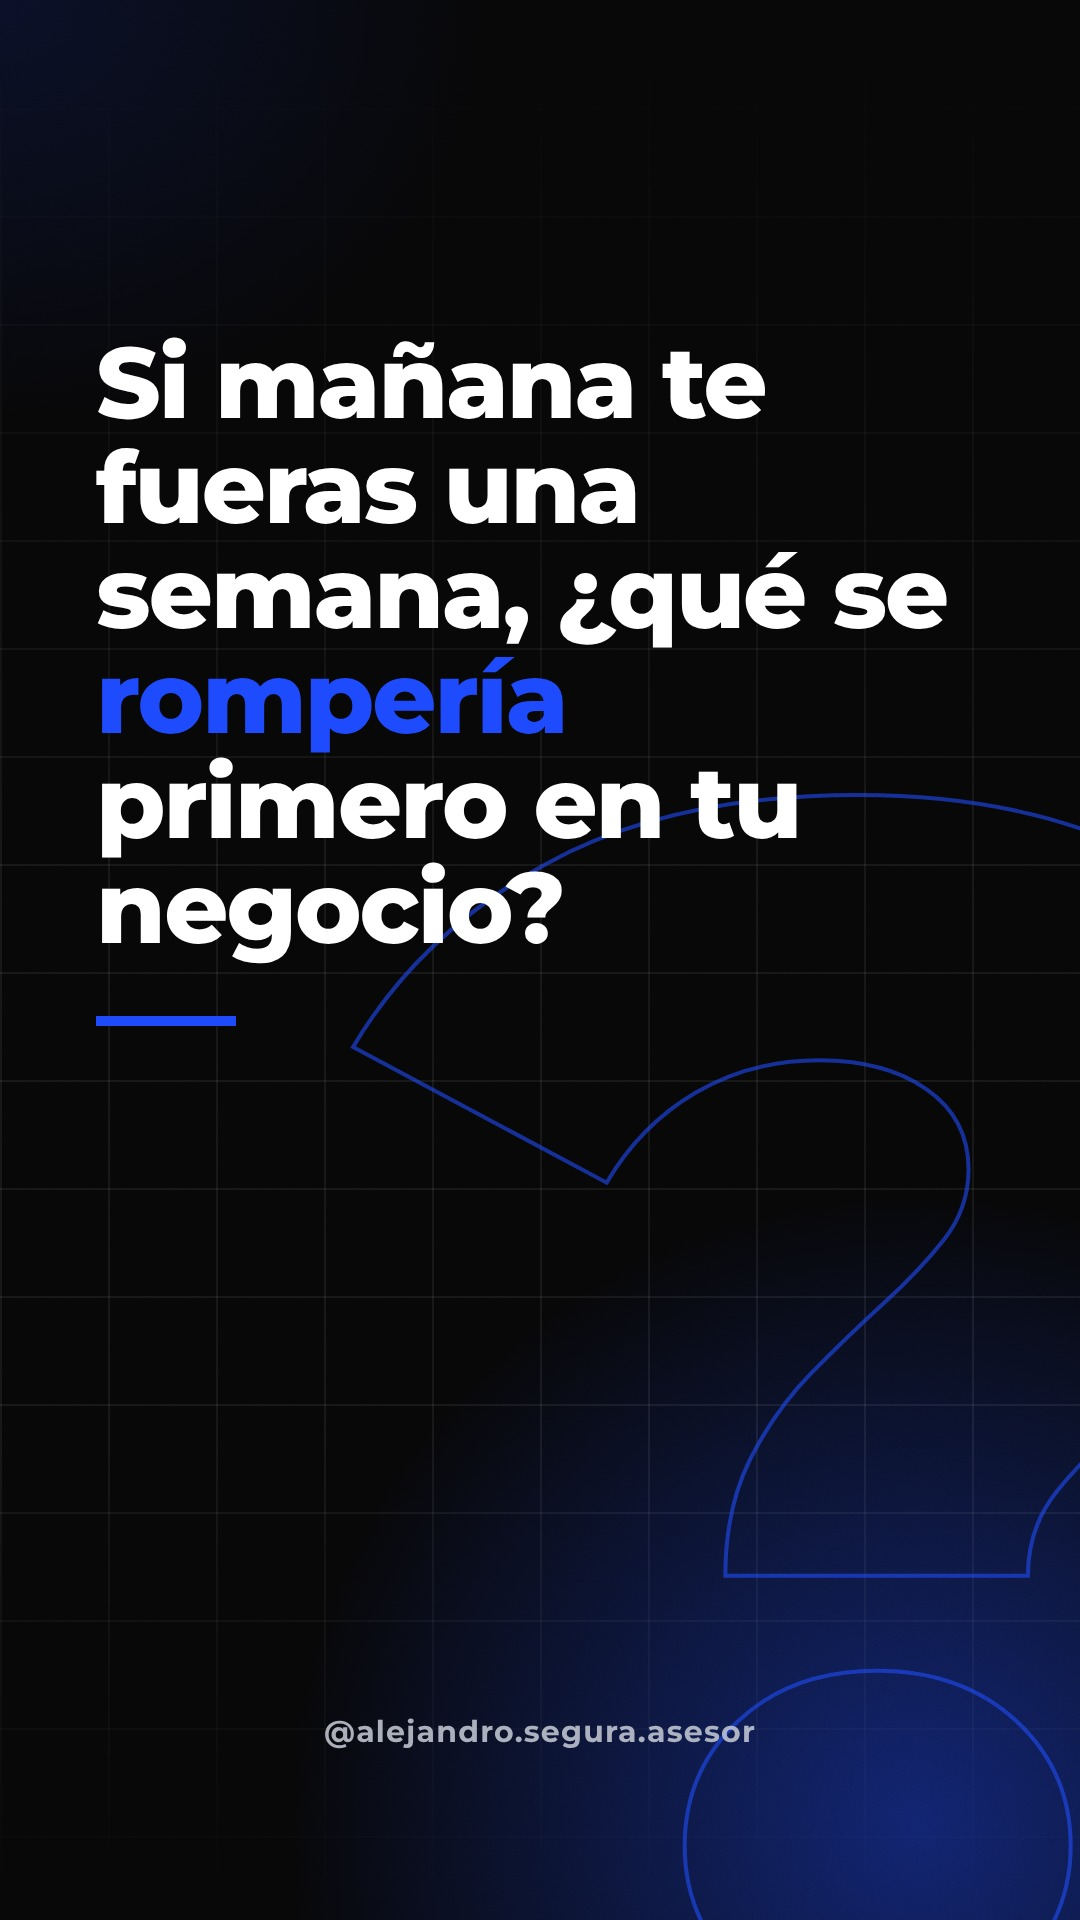
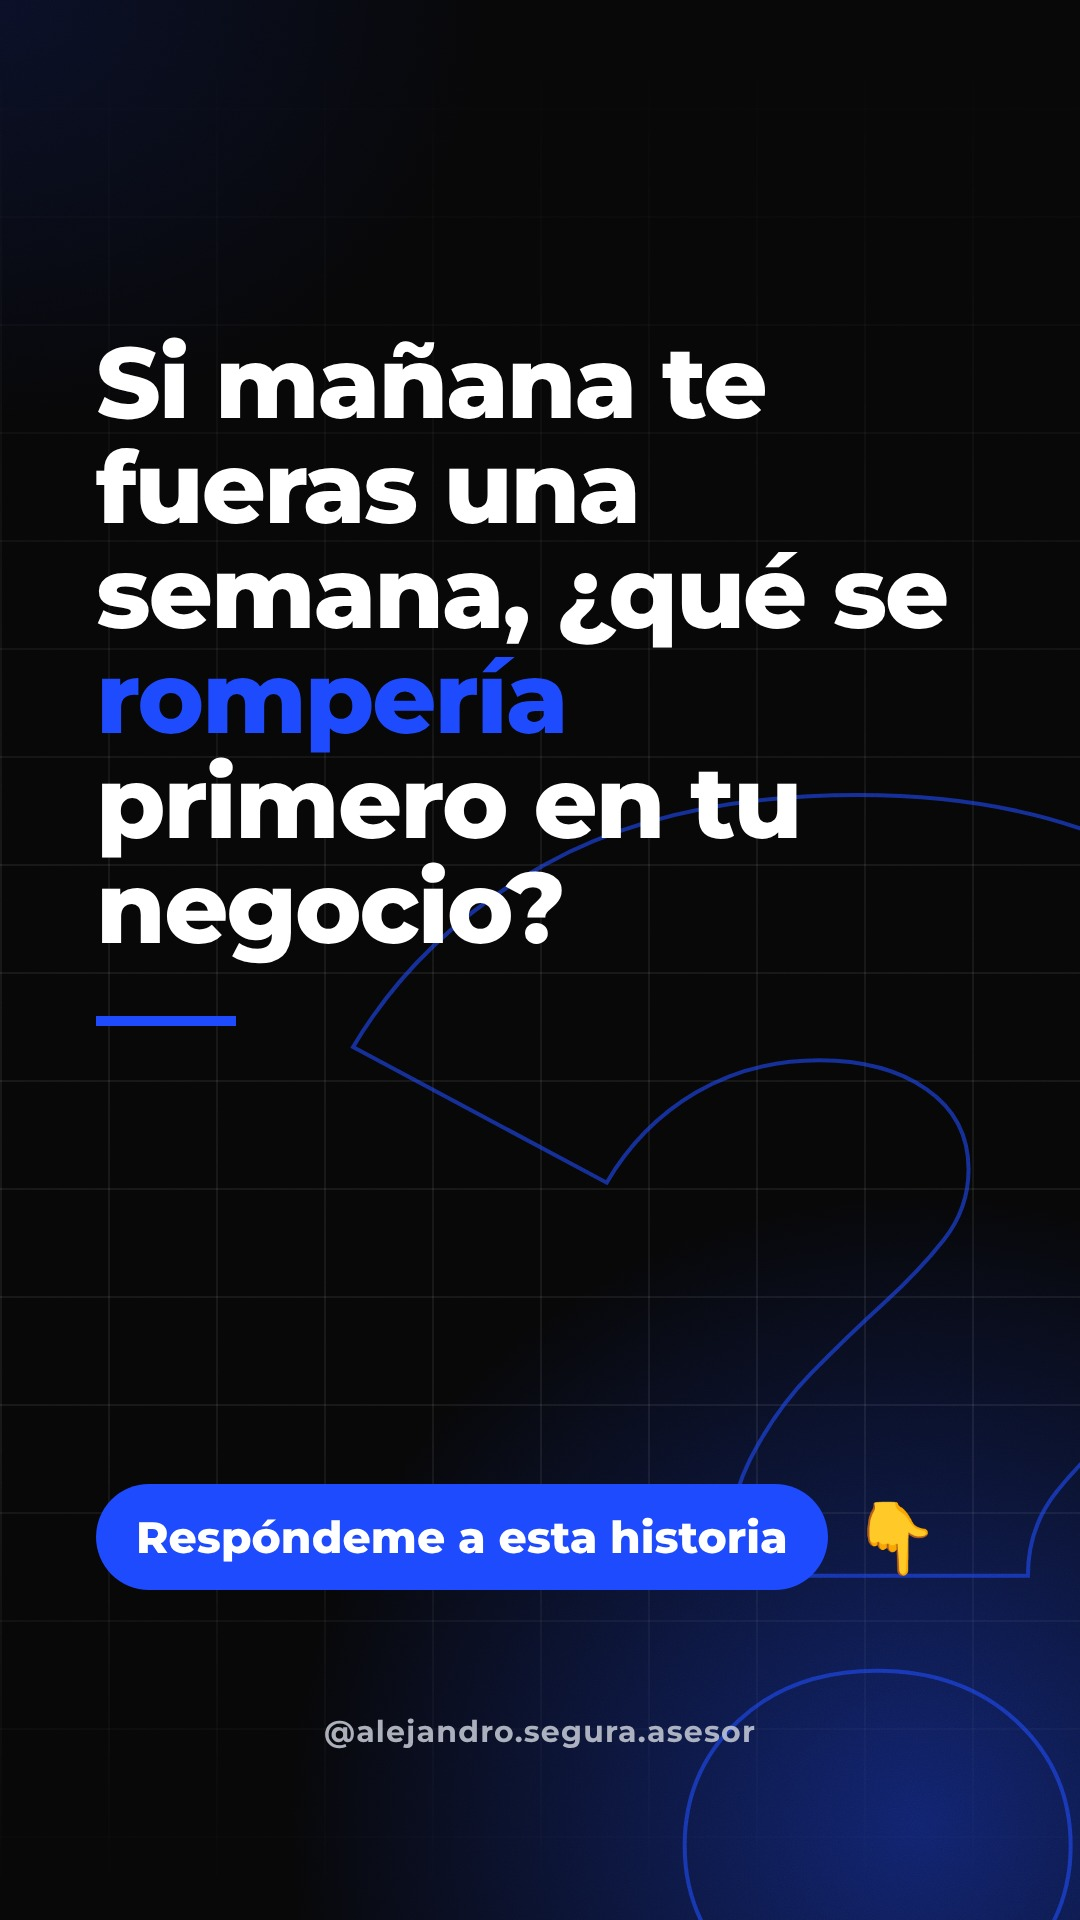
Historias martes 17 y jueves 19 con llamada a la acción
Claude-Session: https://claude.ai/code/session_017QZaA8qgokDHtEnzxU5B1Y

Changed region(s): [[0.0917, 0.75, 0.7639, 0.8438], [0.7944, 0.7812, 0.8556, 0.8438]]

diff --git a/historias/tools/render_2026_11_17_19.py b/historias/tools/render_2026_11_17_19.py
@@ -1,4 +1,5 @@
-"""Historia martes 17-nov (estilo martes de render_story.py). Ejecutar desde la raíz del repo."""
+"""Historias martes 17-nov y jueves 19-nov con llamada a la acción (se publican solas desde Metricool,
+así que la CTA va en la imagen: respuesta por mensaje privado). Ejecutar desde la raíz del repo."""
 import asyncio
 from playwright.async_api import async_playwright
 F="/tmp/mont/fonts/ttf/"
@@ -25,16 +26,36 @@ martes_bg = """
 <div style="position:absolute;right:-300px;bottom:-330px;font-size:1700px;font-weight:800;line-height:1;color:transparent;-webkit-text-stroke:4px #1F4BFF;opacity:.55">?</div>
 """ + GRAIN.format(o=.35)
 
+# MIÉRCOLES (azul): degradado con profundidad + ondas finas concéntricas + grano
+rings="".join(f'<div style="position:absolute;width:{d}px;height:{d}px;border-radius:50%;border:{w}px solid #0A0A0A;opacity:{op};right:{-d//2+60}px;bottom:{-d//2+60}px"></div>'
+              for d,w,op in [(360,30,.85),(620,3,.45),(860,3,.32),(1100,3,.22),(1340,3,.14),(1580,3,.08)])
+miercoles_bg = f"""
+<div style="position:absolute;inset:0;background:linear-gradient(160deg,#3A62FF 0%,#1F4BFF 45%,#1636C9 100%)"></div>
+<div style="position:absolute;inset:0;background:radial-gradient(800px 700px at 15% 10%,#ffffff22,transparent 70%)"></div>
+{rings}
+""" + GRAIN.format(o=.45)
 
-T='Si mañana te fueras una semana, ¿qué se <span style="color:#1F4BFF">rompería</span> primero en tu negocio?'
-html=page(martes_bg,"#1F4BFF","#C9CDD8",T,"").replace("font-size:116px","font-size:100px")
+
+def cta(txt, bg, fg):
+    return (f'<div style="position:absolute;left:96px;right:96px;bottom:330px;display:flex;align-items:center;gap:24px">'
+            f'<div style="background:{bg};color:{fg};padding:26px 40px;border-radius:999px;font-size:44px;font-weight:800;white-space:nowrap">{txt}</div>'
+            f'<div style="font-size:70px">👇</div></div>')
+items = {
+ "historias/2026-11-17-martes.jpg": page(martes_bg,"#1F4BFF","#C9CDD8",
+    'Si mañana te fueras una semana, ¿qué se <span style="color:#1F4BFF">rompería</span> primero en tu negocio?',"")
+    .replace("font-size:116px","font-size:100px").replace("</div></body>", cta("Respóndeme a esta historia","#1F4BFF","#fff")+"</div></body>"),
+ "historias/2026-11-19-jueves.jpg": page(miercoles_bg,"#0A0A0A","#E6EBFF",
+    '¿Cuántas horas a la semana son de verdad <span style="color:#0A0A0A">para&nbsp;ti</span>?',"")
+    .replace("font-size:116px","font-size:100px").replace("</div></body>", '<div style="position:absolute;left:96px;right:96px;top:1060px;font-size:44px;font-weight:700;line-height:1.3;color:#E6EBFF">Para ti, tu familia, tus amigos.<br>No para el negocio.</div>'+cta("Respóndeme con un número","#0A0A0A","#fff")+"</div></body>"),
+}
 async def main():
     async with async_playwright() as p:
         b=await p.chromium.launch(executable_path="/usr/bin/google-chrome",args=["--allow-file-access-from-files"])
         pg=await b.new_page(viewport={"width":1080,"height":1920})
-        open("/tmp/h17.html","w").write(html)
-        await pg.goto("file:///tmp/h17.html"); await pg.evaluate("document.fonts.ready"); await pg.wait_for_timeout(400)
-        await pg.screenshot(path="historias/2026-11-17-martes.jpg",type="jpeg",quality=92)
+        for path,h in items.items():
+            open("/tmp/hcta.html","w").write(h)
+            await pg.goto("file:///tmp/hcta.html"); await pg.evaluate("document.fonts.ready"); await pg.wait_for_timeout(400)
+            await pg.screenshot(path=path,type="jpeg",quality=92)
         await b.close()
 asyncio.run(main())
 print("ok")
